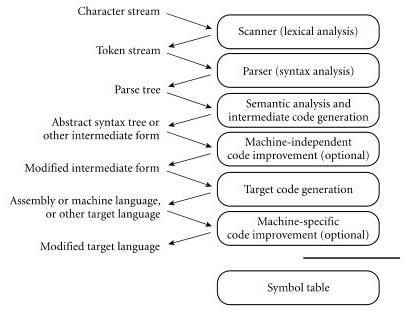
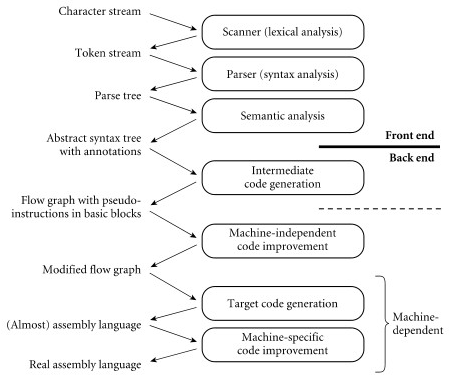
update some notes from chapter 14

diff --git a/docs/programming-language-theory/01-plt-fundamentals/plt-fundamentals.md b/docs/programming-language-theory/01-plt-fundamentals/plt-fundamentals.md
@@ -31,6 +31,10 @@ A compiler translates high-level languages (source code) into target machine lan
 ![Compilation and interpretation](./compilation-interpretation.png)  
 Source : https://www.researchgate.net/figure/nterpretation-vs-compilation_fig4_334289755
 
+:::info
+By definition, a compiler is a translator that converts a programming language into a target language. The target language doesn't have to be machine language, although this is common usage. For instance, it could translate from one high-level programming language to another.
+:::
+
 Some compilers do a preprocessing steps. The preprocessor operates on the source code at a textual level, manipulating or modifying it before the compilation steps. The C language preprocessing tasks includes expanding macros, including or importing other source files, excluding certain portions of code based on conditional macro, etc.
 
 Compilation can be faster, since every decision is made beforehand. However, interpretation can be easier to debug, as instructions are executed on the fly. Although, it is possible to combine both approach through intermediate language.
@@ -46,29 +50,25 @@ Language like Java interprets source code into intermediate language called **by
 
 ### Compilation Process
 
-Adding up from [compilation process](/computer-and-programming-fundamentals/compilation#compilation-process), the process can be broken down further into 6 steps.
+Adding up from [compilation process](/computer-and-programming-fundamentals/compilation#compilation-process), the process can be broken down further into 6 steps. The first 3 steps is called the **frontend**, where the compilers interact with high-level source code (language-dependent). The 3 later stages are called **backend** process, where the compiler focuses on generating code that is specific to the target machine from the output of frontend (machine-dependent). The frontend stages of compiler is same for any machine, but compiler may have different internal structure during the backend stages.
 
 ![Compilation process](./compilation-process.png)  
-Source : Book page 23
+Source : Book page 763
 
-1. **Lexical Analysis** : The first steps filter out unnecessary symbols from the source code, keeping only necessary input that comes from the language (called tokens). This includes removing white spaces and comments, while keeping identifier (e.g., variable names, function names), keywords, literals, operators, etc. The compiler may use the **symbol table** for storing global information about the compilation and code.
-2. **Syntax Analysis** : This steps analyze the correctness of the code according to the defined grammar. A *parse tree* is constructed from the produced tokens from the previous step. The parse tree represents the structure of how the code derives its grammar. For example, a language may specify the grammar using [context-free grammar](/theory-of-computation-and-automata/context-free-grammar), and the compiler will identify whether a particular token in the constructed parse tree belong to identifiers, keywords, or any other categories. Then, according to the grammar rules, it checks for correctness.
+1. **Lexical Analysis (Scanning)** : The first steps filter out unnecessary symbols from the source code, keeping only necessary input that comes from the language (we call it tokens). This includes removing white spaces and comments, while keeping identifier (e.g., variable names, function names), keywords, literals, operators, etc. The compiler may use the **symbol table** for storing global information about the compilation and code.
+2. **Syntax Analysis (Parsing)** : This steps analyze code correctness according to defined grammar. A _parse tree_ is constructed from the produced tokens from the previous step. The parse tree represents code organization based on grammar rules. For instance, a language may use [context-free grammar](/theory-of-computation-and-automata/context-free-grammar) do define its grammar. The compiler identifies if tokens belong to any valid categories. Compiler will continue constructing the tree whenever it encounters valid grammar, while encountering unexpected tokens gives a **syntax error**.
 
-   If the grammar is defined as `<while_statement> -> while <boolean_expression> <statement>`, it means that a while statement must be in the form of starting with the word "while", followed by an expression that returns a boolean type, and finally, a statement, which could be a comparison. If the compiler receives while x = 3, this may not conform to the grammar, as `x = 3` could be considered as `<identifier> = <literals>` (i.e., `x` is an identifier, it's a name given by the programmers, and 3 is a literal number).
+   If a grammar is defined as `<while_statement> -> while <boolean_expression> <statement>`, it basically means that a while statement must start with the keyword `while` followed by an expression that returns a boolean type, and finally a statement, which performs the actual operation. The boolean expression could be a comparison, equality checking, or other. If the compiler receives `while x = 3`, this may not conform to the grammar since `x = 3` is not a valid boolean expression. It is more like assignment, where the grammar may look like `<identifier> = <literals>` (i.e., `x` is an identifier, a name given by the programmers, and 3 is a literal number).
 
    ![Parse tree](./parse-tree.png)  
-   _an example of simple parse tree of mathematical expression_  
    Source : https://ruslanspivak.com/lsbasi-part7/
+
+   The above is an example of a parse tree. When the compiler sees `2 * 7 + 3`, it recognizes that it is an expression. It knows that expression should be `<term> +|-|*|/ <term>` (i.e., a term combined with one choice of operator and followed by another term). It further recognizes that one of the term itself is nested with the operator `*`. A term can be obtained from a single factor, just like what 3 is, or consist of a factor multiplied by another term (which could be another single factor).
 
 3. **Semantic Analysis** : In this step, the compiler checks the meaning of the code beyond its syntax. This can include type checking, scoping rules, and other language semantics. It may enforce that an integer type cannot be added to a string, or checking whether a variable is defined before it is used.
 
    Language like Java won't allow a string to be accessed with square bracket like an array (called string indexing). In contrast, Python allows you to get character at some index like `str[3]`. This will be a compile-time error in Java, as it violates the language's semantics and type system (certain rules may only be checked at runtime).
 
-:::info
-The first up to the third steps are often called the frontend process of compilation, where the compilers interact with high-level source code. The later stages are called backend process, where the compiler focuses on generating code from the output of frontend.
-:::
-
 4. **Machine-independent Optimization** : These optimizations are applied without considering the specific target machine architecture. For example, some function can be inlined, meaning the actual content of a function is substituted to the call site. This can reduce overhead of calling a function.
-
 5. **Target Code Generation** : Compiler translates the parse tree into target code specific to the target machine architecture. The target code can be assembly language, machine code, or an intermediate representation such as bytecode or LLVM IR. The target code generation stage involves mapping the high-level constructs of the source language to the low-level instructions of the target machine.
 6. **Machine-dependent Optimization** : Once the target code is generated, the compiler can apply additional optimizations that are specific to the target machine architecture. Examples of machine-dependent optimizations include instruction scheduling, register allocation, and target-specific code transformations.

diff --git a/docs/programming-language-theory/06-target-architecture/target-architecture.md b/docs/programming-language-theory/06-target-architecture/target-architecture.md
@@ -67,6 +67,28 @@ Compilers use virtual registers during compilation process to represent variable
 
 Depending on the architecture, they have the different number of physical registers, size, and types. The arrangement of instruction also affect the availability of registers, a thoughtful scheduling can further optimize register allocation and utilization.
 
+For example, given an expression `(a + b) × (c − (d / e))`. One way to calculate this is using 9 separate register.
+
+```
+R1 = a
+R2 = b
+R3 = c
+R4 = d
+R5 = e
+
+R6 = R1 + R2   // (a + b)
+R7 = R4 / R5   // (d / e)
+R8 = R3 - R7   // (c - (d / e))
+R9 = R6 * R8   // ((a + b) * (c - (d / e)))
+```
+
+The end result is stored at R9. However, registers are limited, and we can't just use all the available registers.
+
+![Better register allocation](./better-register-allocation.png)  
+Source : Book page 772
+
+This evaluation uses 4 register, reusing the previous register for the new intermediate value. There are many factors in optimizing this, such as reducing the number of registers used, the number of memory accesses, the number of spills (moving values between registers and memory), and the overall performance of the generated code.
+
 :::tip
 More about compiler optimization.
 :::
